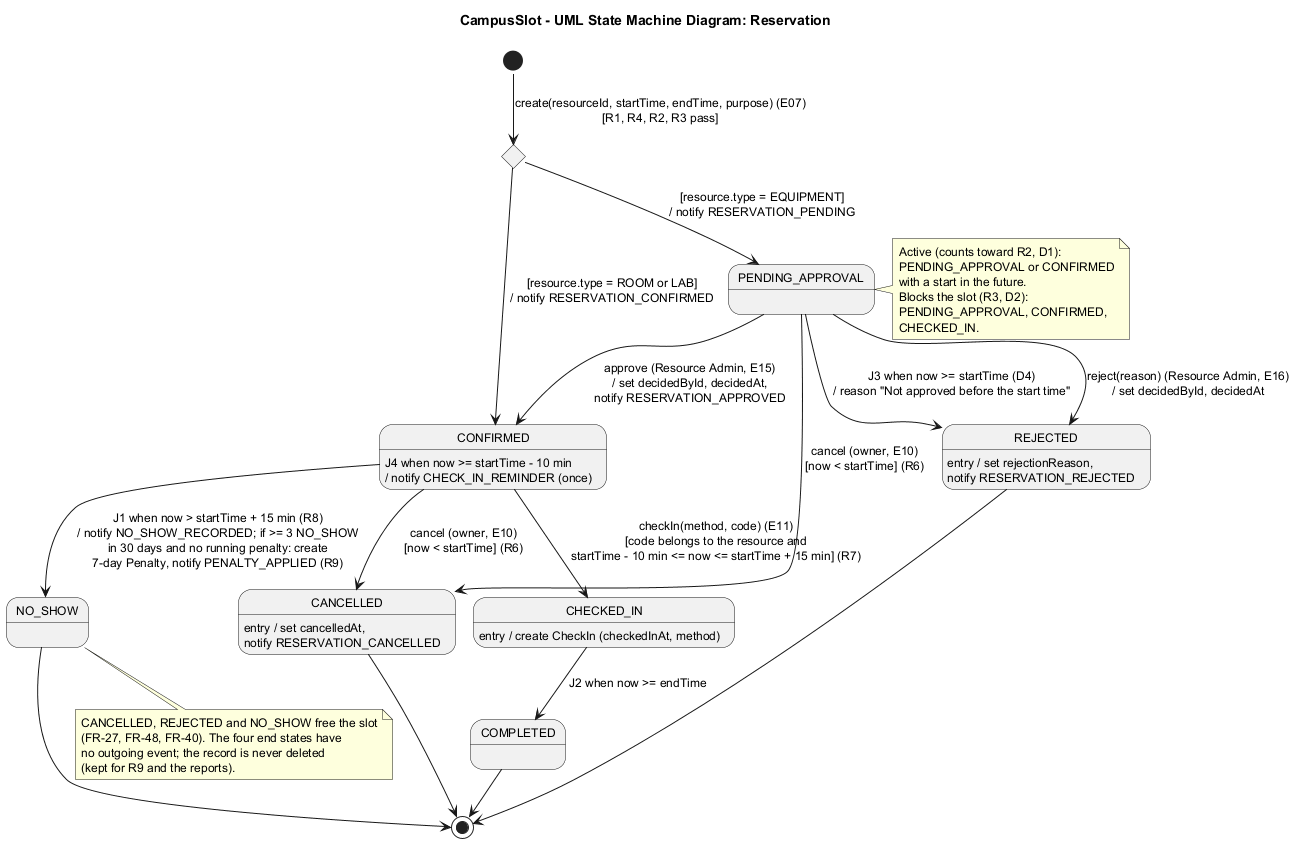
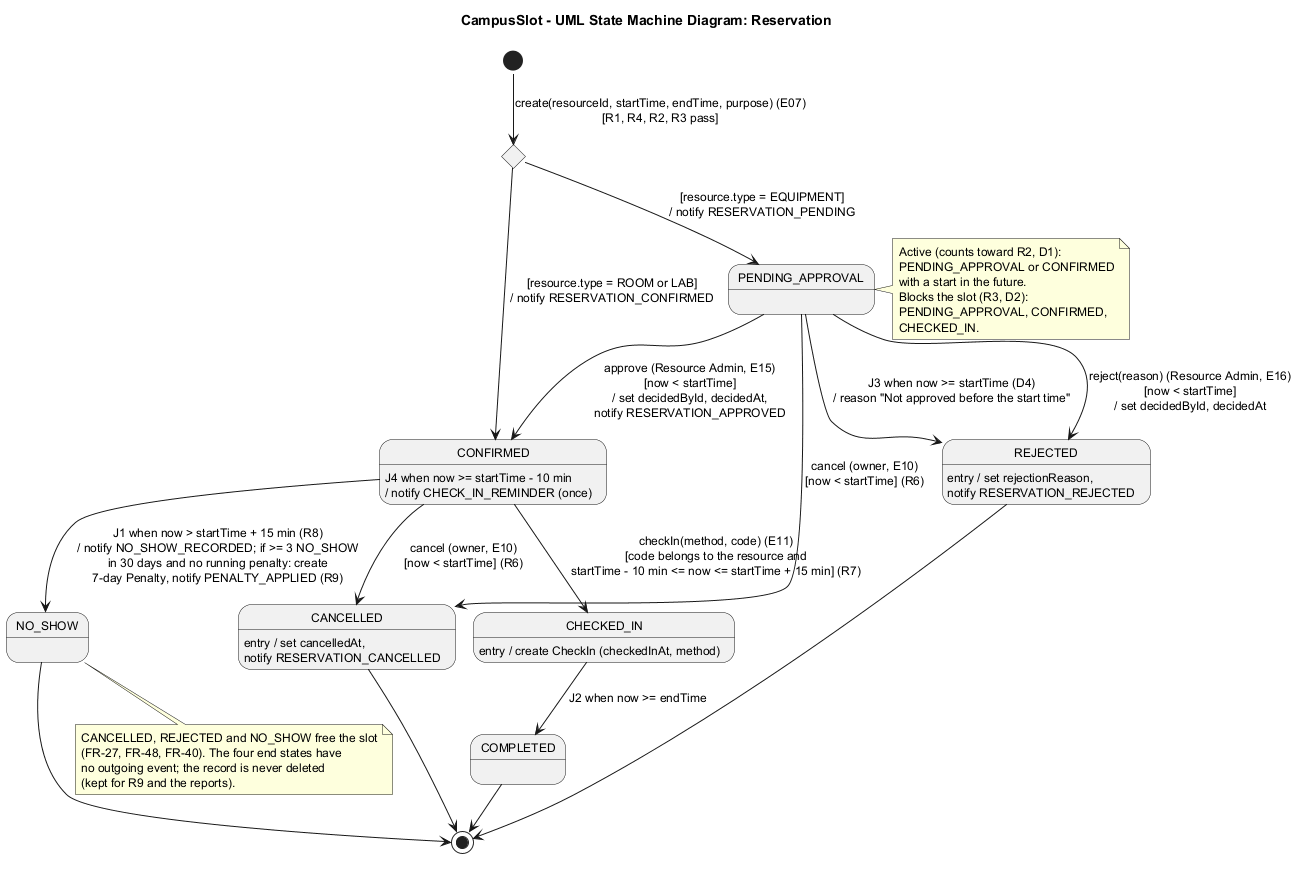
docs: 5.7 state machine, approve and reject only before the start time (H41)

diff --git a/HANDOFFS.md b/HANDOFFS.md
@@ -22,7 +22,6 @@ Last updated: 26 Nov 2026 (Mert: eighth member Yağız Asker added to 5.13, 5.11
 | H20 | Görkem, Mert | Enes | Build the screens on the frontend skeleton, starting with Log in and Register. Each page file already lists its use case and API calls. The Register page needs the privacy notice and the `privacyNoticeAccepted` checkbox (5.8.5.5), and must not use `dangerouslySetInnerHTML` (5.8.5.2, A05). | 1 Dec (plan L, M, N) | Open | `frontend/src/pages/`, `frontend/README.md` |
 | H06 | Mert | Batuhan | 5.7 design patterns: **draft done 25 Nov** (P1 Strategy, P2 State, P3 Repository, P4 Chain of Responsibility, P5 Singleton, P6 DTO + Mapper, with diagram). Only P5 is verified in code; the rest are checked against Erol's code when it is on `main` (DP-1). | 27 Nov | In progress | `docs/report/5.7_design-patterns_Batuhan.md` |
 | H40 | Batuhan | Erol | Use the class names of 5.7 design patterns in the code and in the class diagram (`ReservationRule`, `DurationRule`, `PenaltyRule`, `ActiveLimitRule`, `OverlapRule`, `RuleContext`, `ReservationStateMachine.next()`, one repository per table), or tell Batuhan which names you prefer (DP-2). | 28 Nov | Open | `docs/report/5.7_design-patterns_Batuhan.md` |
-| H41 | Batuhan | Enes | Your open point "approve or reject after the start time" in 5.7 state machine is already decided: E15 and E16 answer `422 RESERVATION_ALREADY_STARTED` when the start time has passed (5.8.4.3 catalogue). You can replace the [TBD] with this reference (DP-3). | 28 Nov | Open | `docs/report/5.7_state-machine_Enes.md` |
 | H26 | Batuhan | Erol | Build the server controls in 5.8.5.2: role and ownership checks, `helmet`, `cors` with `CORS_ORIGIN`, rate limits, door codes from `crypto` (not `Math.random`), logging without passwords, tokens or codes. Contract change: password max 72 bytes in E01 (bcrypt limit). | 1 Dec | Open | 5.8.5.2, 5.8.5.3 |
 | H27 | Batuhan | Görkem | Security tests ST-01 to ST-15 for 5.12. Seed the demo database with a secret `SEED_PASSWORD`: the default `CampusSlot123!` in `seed.ts` is public on GitHub. Run `npm audit` before the freeze. | 1 Dec | Open | 5.8.5.6, SEC-O4 |
 | H29 | Batuhan, Enes | Mert | Follow-up to H28, the parts that need an answer from outside the team: SEC-O1 the server region of Render and Neon and whether real use needs hosting in Turkey; SEC-O2 who receives and answers Art. 11 requests within 30 days; SEC-O3 the exact privacy notice wording for the register page (Enes is blocked on the wording, not on the checkbox); and which Art. 5 legal basis the university relies on. | 1 Dec | Open | 5.10.2 "Questions for the university" |
@@ -46,6 +45,7 @@ Last updated: 26 Nov 2026 (Mert: eighth member Yağız Asker added to 5.13, 5.11
 
 | ID | Waiting | Owner | What | Done on | Where |
 |---|---|---|---|---|---|
+| H41 | Batuhan | Enes | Replaced the open point "approve or reject after the start time" in the 5.7 state machine: T3 (E15) and T4 (E16) now carry the guard `now < startTime` (otherwise `422 RESERVATION_ALREADY_STARTED`, 5.8.4.3); moved to "Decided points"; diagram re-rendered. | 26 Nov | `docs/report/5.7_state-machine_Enes.md`, `docs/diagrams/5.7_state-machine-diagram_Enes.puml` / `.png` |
 | H31 | Görkem | Zeynep (Mert as draft author) | 5.4 FR tables: the "Rule / UC" column now takes its UC from the FR → UC table in 5.6.3 for all 55 FRs (FR-31 → UC-07, FR-54 → UC-08, FR-55 → UC-09, and the rows that had only a rule or a feature). | 26 Nov | `docs/report/5.4_requirements_Mert.md` 5.4.3 |
 | H11 | Enes | Arzum | Screen designs and user flow: 13 screens and 2 logos (PNG and SVG), plus the two UML activity diagrams of 5.6. | 26 Nov | docs/diagrams/5.7_ui-01-login_Arzum.png to docs/diagrams/5.7_ui-13-user-flows_Arzum.png (13 screens), docs/diagrams/5.7_ui-logo-icon_Arzum.svg, docs/diagrams/5.7_ui-logo-horizontal_Arzum.svg, docs/diagrams/5.6_activity-diagram-make-reservation_Arzum.png, docs/diagrams/5.6_activity-diagram-checkin-noshow_Arzum.png |
 | H36 | Görkem | Mert | Three fixes: (1) `merge_report.py` now also looks for Chrome at the Windows install paths; (2) embedded the 5 diagrams that were only named, not shown, as `![...](../diagrams/....png)` in `5.7_component-deployment_Batuhan.md` (2 images), `5.7_design-patterns_Batuhan.md`, `5.7_state-machine_Enes.md` and `5.8_architecture-stack_Batuhan.md` — verified all 6 images (these 5 plus 5.6's) resolve in the rendered HTML/PDF; (3) **Görkem was right, Mert's AI assistant was wrong**: checked Anthropic's own current docs (`platform.claude.com/docs/en/models/overview`, 25 Nov) and confirmed Claude Opus 5.5 and Claude Sonnet 5.5 are real current models (`claude-opus-5-5`, `claude-sonnet-5-5`), newer than the Opus 4.8 / Sonnet 5 the assistant's own stale system info had claimed were "latest." Reverted the wrong correction in 5.14; Batuhan's and Görkem's rows stay Claude Opus 5.5. | 25 Nov | `docs/report/merge_report.py`, `docs/report/5.7_component-deployment_Batuhan.md`, `docs/report/5.7_design-patterns_Batuhan.md`, `docs/report/5.7_state-machine_Enes.md`, `docs/report/5.8_architecture-stack_Batuhan.md`, 5.14 |

diff --git a/docs/report/5.7_state-machine_Enes.md b/docs/report/5.7_state-machine_Enes.md
@@ -30,8 +30,8 @@ A reservation is the only object in CampusSlot whose behaviour depends on its st
 |---|---|---|---|---|---|
 | T1 | start → `PENDING_APPROVAL` | `create` (Campus User, E07) | The rule chain passes (R1, R4, R2, R3) and `resource.type = EQUIPMENT` | Notification `RESERVATION_PENDING` | R5, FR-19, 5.8.4.7 |
 | T2 | start → `CONFIRMED` | `create` (Campus User, E07) | The rule chain passes and `resource.type` is `ROOM` or `LAB` | Notification `RESERVATION_CONFIRMED` | R5, FR-18, 5.8.4.7 |
-| T3 | `PENDING_APPROVAL` → `CONFIRMED` | `approve` (Resource Admin, E15) | — | Set `decidedById`, `decidedAt`; notification `RESERVATION_APPROVED` | FR-45, FR-47, FR-30 |
-| T4 | `PENDING_APPROVAL` → `REJECTED` | `reject(reason)` (Resource Admin, E16) | — | Set `decidedById`, `decidedAt`, `rejectionReason`; notification `RESERVATION_REJECTED` | FR-46, FR-47 |
+| T3 | `PENDING_APPROVAL` → `CONFIRMED` | `approve` (Resource Admin, E15) | `now < startTime` (otherwise `422 RESERVATION_ALREADY_STARTED`, 5.8.4.3) | Set `decidedById`, `decidedAt`; notification `RESERVATION_APPROVED` | FR-45, FR-47, FR-30 |
+| T4 | `PENDING_APPROVAL` → `REJECTED` | `reject(reason)` (Resource Admin, E16) | `now < startTime` (otherwise `422 RESERVATION_ALREADY_STARTED`, 5.8.4.3) | Set `decidedById`, `decidedAt`, `rejectionReason`; notification `RESERVATION_REJECTED` | FR-46, FR-47 |
 | T5 | `PENDING_APPROVAL` → `REJECTED` | J3 AutoRejectJob (System Scheduler) | `now ≥ startTime` | `rejectionReason` = "Not approved before the start time", `decidedById` = null; notification `RESERVATION_REJECTED` | D4, FR-55 |
 | T6 | `PENDING_APPROVAL` → `CANCELLED` | `cancel` (owner, E10) | `now < startTime` | Set `cancelledAt`; notification `RESERVATION_CANCELLED` | R6, FR-25, FR-30 |
 | T7 | `CONFIRMED` → `CANCELLED` | `cancel` (owner, E10) | `now < startTime` | Set `cancelledAt`; notification `RESERVATION_CANCELLED` | R6, FR-25, FR-30 |
@@ -55,9 +55,12 @@ The frontend does not change states itself; it calls the endpoint for the event 
 - The Approvals screen lists only `PENDING_APPROVAL` reservations (E14) and offers approve and reject (T3, T4).
 - If the state changed in the meantime (for example the scheduler ran T9 while the page was open), the server answers `409 INVALID_STATE_TRANSITION` or a check-in error, and the page shows `error.message` and reloads the list.
 
+#### Decided points
+
+- **Approve or reject after the start time.** J3 runs every 60 seconds, so for up to about one minute after `startTime` a `PENDING_APPROVAL` reservation can still exist. E15 and E16 refuse it with `422 RESERVATION_ALREADY_STARTED` (5.8.4.3 catalogue, DP-3; H41), so T3 and T4 carry the guard `now < startTime` and only J3 (T5) moves such a reservation to `REJECTED`.
+
 #### Open points
 
-- **Approve or reject after the start time.** J3 runs every 60 seconds, so for up to about one minute after `startTime` a `PENDING_APPROVAL` reservation still exists and the admin could approve it. Should E15 and E16 refuse when `now ≥ startTime`? [TBD: Batuhan, Erol]
 - **Deactivated resource with future reservations.** 5.4 leaves open what happens to them (cancel or keep). If they are cancelled by the system, the diagram needs one more transition to `CANCELLED`. [TBD: Product Owner]
 - **Trigger of `COMPLETED`.** FR-38 marks the trigger (end time passed) as the PM's reading of the project card. [TBD: confirm, Zeynep]
 - **Delay of time events.** Because the scheduler runs every 60 seconds, T5, T9 and T10 happen up to about one minute after their time, and later if the Render free instance was asleep (5.7 Deployment, risks).
